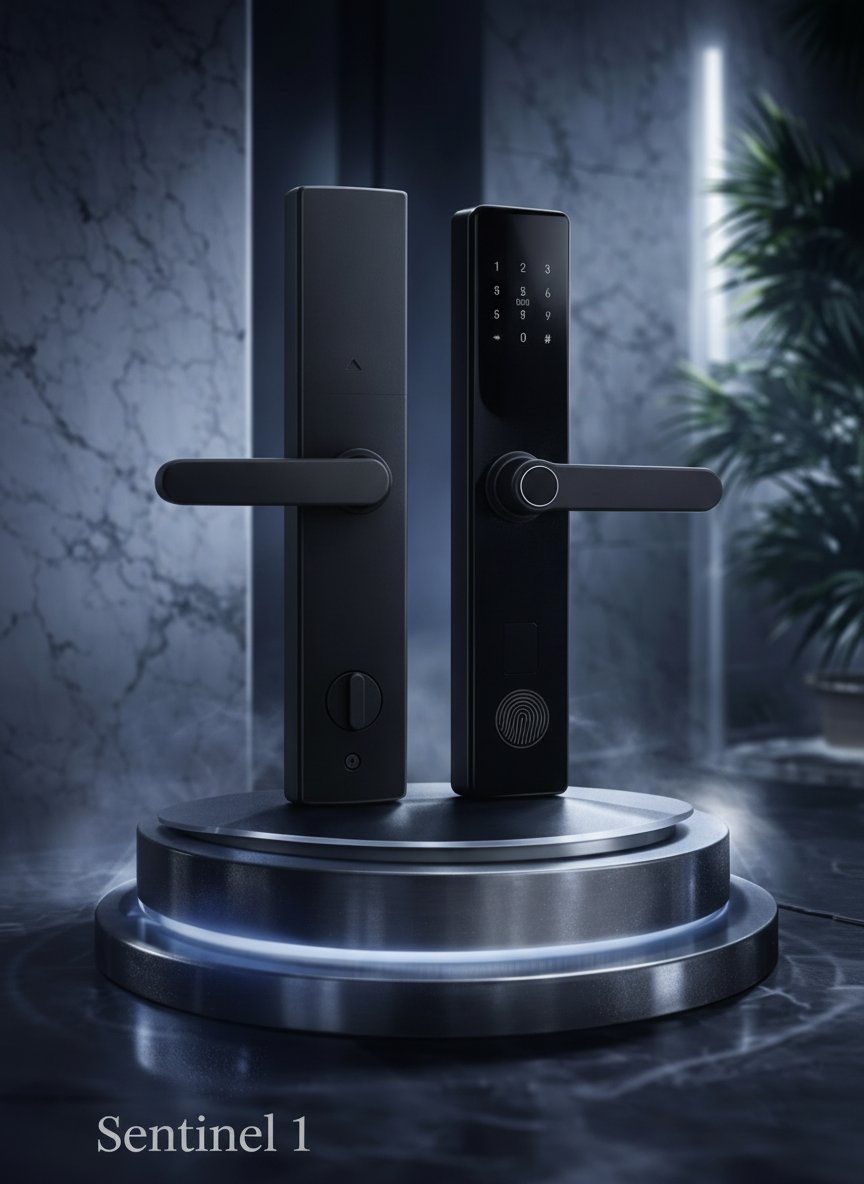
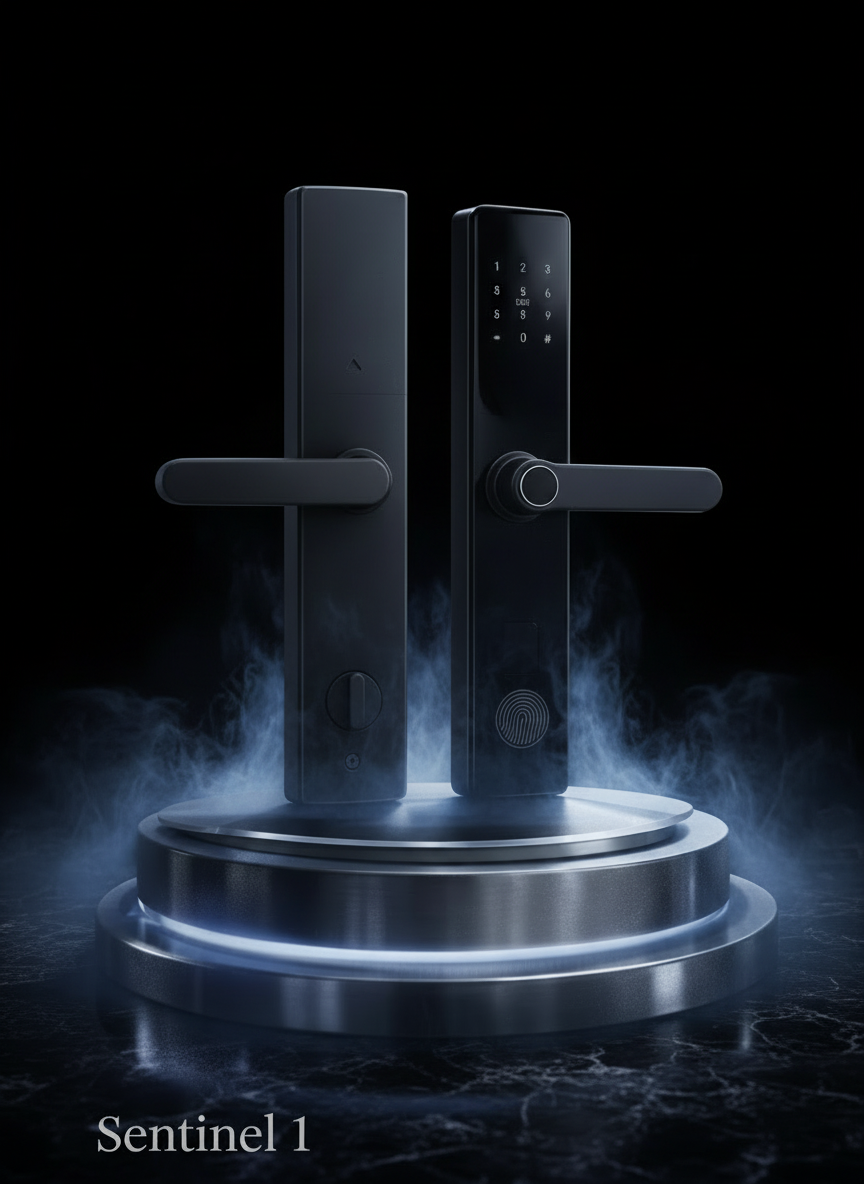
Changes

diff --git a/src/components/ProductShowcase.tsx b/src/components/ProductShowcase.tsx
@@ -3,6 +3,7 @@ import { ArrowRight } from "lucide-react";
 import { Link } from "react-router-dom";
 import sentinelOneImg from "@/assets/product-sentinel-minimal.png";
 import sentinelProImg from "@/assets/product-sentinel-duo.png";
+import showcaseBg from "@/assets/product-showcase-wide.jpg";
 
 const products = [
   {
@@ -23,50 +24,82 @@ const products = [
 
 const ProductShowcase = () => {
   return (
-    <section className="py-32 bg-deep relative overflow-hidden">
-      {/* Cool ambient glow */}
-      <div className="absolute top-1/2 left-1/2 -translate-x-1/2 -translate-y-1/2 w-[600px] h-[600px] rounded-full bg-silver-accent/5 blur-[150px]" />
+    <section className="relative overflow-hidden">
+      {/* Wide panoramic background */}
+      <div className="relative">
+        <div
+          className="absolute inset-0"
+          style={{
+            backgroundImage: `url(${showcaseBg})`,
+            backgroundSize: "cover",
+            backgroundPosition: "center",
+          }}
+        />
+        <div className="absolute inset-0 bg-gradient-to-b from-background via-transparent to-background" />
+        <div className="absolute inset-0 bg-deep/40" />
 
-      <div className="relative z-10 container mx-auto px-6">
-        <div className="grid md:grid-cols-2 gap-16 max-w-5xl mx-auto">
-          {products.map((product, i) => (
-            <motion.div
-              key={product.name}
-              className="group"
-              initial={{ opacity: 0, y: 30 }}
-              whileInView={{ opacity: 1, y: 0 }}
-              viewport={{ once: true }}
-              transition={{ duration: 0.7, delay: i * 0.2 }}
-            >
-              {/* Product image */}
-              <div className="relative mb-10 flex justify-center">
-                <div className="absolute inset-0 bg-silver-accent/5 rounded-3xl blur-2xl group-hover:bg-silver-accent/10 transition-all duration-700" />
+        {/* Product images row */}
+        <div className="relative z-10 container mx-auto px-6 pt-24 pb-8">
+          <div className="grid grid-cols-2 gap-0 max-w-6xl mx-auto items-end">
+            {products.map((product, i) => (
+              <motion.div
+                key={product.name}
+                className="group flex justify-center relative"
+                initial={{ opacity: 0, y: 40 }}
+                whileInView={{ opacity: 1, y: 0 }}
+                viewport={{ once: true }}
+                transition={{ duration: 0.8, delay: i * 0.25 }}
+              >
+                {/* Gradient mask to blend edges into background */}
+                <div className="absolute inset-0 pointer-events-none z-10"
+                  style={{
+                    background: i === 0
+                      ? 'linear-gradient(to right, transparent 0%, transparent 70%, hsl(225 15% 6% / 0.6) 100%)'
+                      : 'linear-gradient(to left, transparent 0%, transparent 70%, hsl(225 15% 6% / 0.6) 100%)',
+                  }}
+                />
                 <img
                   src={product.image}
                   alt={product.name}
-                  className="relative h-56 w-auto opacity-90 group-hover:opacity-100 group-hover:scale-[1.02] transition-all duration-700"
+                  className="h-56 md:h-80 lg:h-[420px] w-auto drop-shadow-[0_0_60px_hsl(250_20%_60%/0.15)] group-hover:scale-[1.02] transition-transform duration-700"
                 />
-              </div>
+              </motion.div>
+            ))}
+          </div>
+        </div>
+      </div>
 
-              {/* Copy */}
-              <p className="text-[11px] font-medium tracking-[0.25em] uppercase text-silver-accent mb-3">
-                {product.tagline}
-              </p>
-              <h3 className="text-3xl font-heading font-medium text-deep-foreground mb-4">
-                {product.name}
-              </h3>
-              <p className="text-chrome-light font-light leading-relaxed mb-8">
-                {product.desc}
-              </p>
-              <Link
-                to={product.link}
-                className="group/link inline-flex items-center gap-2 text-[13px] font-medium tracking-[0.15em] uppercase text-silver-accent border-b border-silver-accent/30 pb-1.5 hover:border-silver-accent/60 transition-all duration-500"
+      {/* Product info below */}
+      <div className="relative z-10 bg-deep pb-24 pt-16">
+        <div className="container mx-auto px-6">
+          <div className="grid md:grid-cols-2 gap-16 max-w-5xl mx-auto">
+            {products.map((product, i) => (
+              <motion.div
+                key={product.name}
+                initial={{ opacity: 0, y: 20 }}
+                whileInView={{ opacity: 1, y: 0 }}
+                viewport={{ once: true }}
+                transition={{ duration: 0.6, delay: i * 0.15 }}
               >
-                Discover {product.name}
-                <ArrowRight className="w-4 h-4 group-hover/link:translate-x-1 transition-transform duration-300" />
-              </Link>
-            </motion.div>
-          ))}
+                <p className="text-[11px] font-medium tracking-[0.25em] uppercase text-silver-accent mb-3">
+                  {product.tagline}
+                </p>
+                <h3 className="text-3xl font-heading font-medium text-deep-foreground mb-4">
+                  {product.name}
+                </h3>
+                <p className="text-chrome-light font-light leading-relaxed mb-8">
+                  {product.desc}
+                </p>
+                <Link
+                  to={product.link}
+                  className="group/link inline-flex items-center gap-2 text-[13px] font-medium tracking-[0.15em] uppercase text-silver-accent border-b border-silver-accent/30 pb-1.5 hover:border-silver-accent/60 transition-all duration-500"
+                >
+                  Discover {product.name}
+                  <ArrowRight className="w-4 h-4 group-hover/link:translate-x-1 transition-transform duration-300" />
+                </Link>
+              </motion.div>
+            ))}
+          </div>
         </div>
       </div>
     </section>
